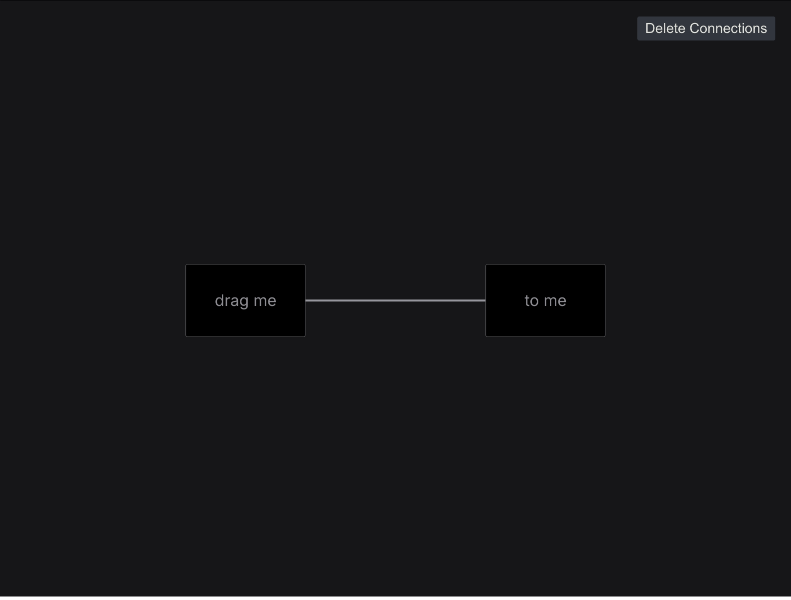
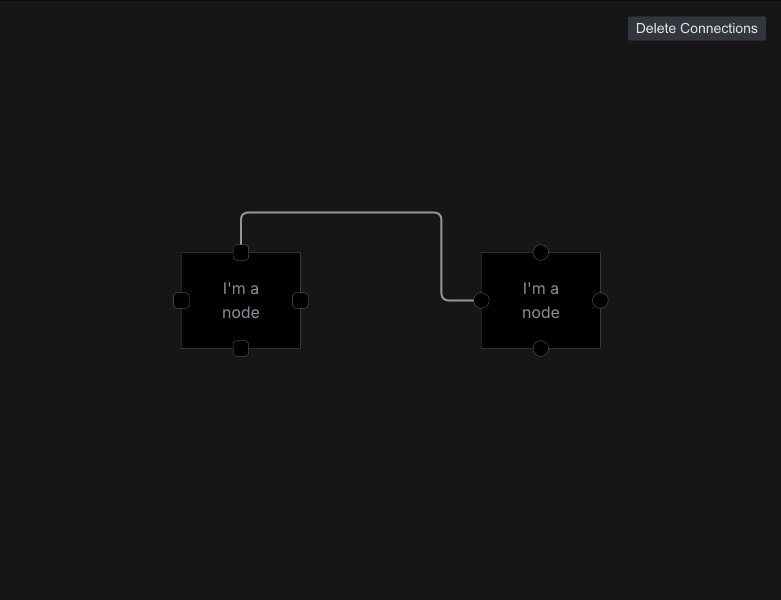
docs: Added Connection Text example

diff --git a/public/markdown/examples/environment.ts b/public/markdown/examples/environment.ts
@@ -134,6 +134,10 @@ function createEnvironment(): IDocsEnvironment {
         component: import('../../../projects/f-examples/connections/connection-markers/connection-markers.component')
       },
       {
+        tag: 'connection-text',
+        component: import('../../../projects/f-examples/connections/connection-text/connection-text.component')
+      },
+      {
         tag: 'custom-connections',
         component: import('../../../projects/f-examples/connections/custom-connections/custom-connections.component')
       },
@@ -462,20 +466,14 @@ function connectionGroup(): INavigationGroup {
         description: 'Automatically snap connections to nodes in Foblex Flow, enabling easier diagram creation in Angular.',
         image: './previews/examples/auto-snap.light.png',
         image_dark: './previews/examples/auto-snap.dark.png',
-        image_width: 791,
+        image_width: 781,
         image_height: 600,
         image_type: 'image/png',
+        badge: {
+          text: 'Updated',
+          type: 'warning'
+        }
       },
-      // {
-      //   link: 'connection-selection',
-      //   text: 'Connection Selection',
-      //   description: 'Select connections in Foblex Flow diagrams for Angular.',
-      //   image: './previews/examples/connection-selection.light.png',
-      //   image_dark: './previews/examples/connection-selection.dark.png',
-      //   image_width: 806,
-      //   image_height: 600,
-      //   image_type: 'image/png',
-      // },
       {
         link: 'connection-types',
         text: 'Connection Types',
@@ -517,6 +515,20 @@ function connectionGroup(): INavigationGroup {
         image_type: 'image/png',
       },
       {
+        link: 'connection-text',
+        text: 'Connection Text',
+        description: 'Add text to connections in Foblex Flow diagrams for Angular.',
+        image: './previews/examples/connection-text.light.png',
+        image_dark: './previews/examples/connection-text.dark.png',
+        image_width: 781,
+        image_height: 600,
+        image_type: 'image/png',
+        badge: {
+          text: 'New',
+          type: 'info'
+        }
+      },
+      {
         link: 'custom-connections',
         text: 'Custom Connections',
         description: 'Create and customize connections in Foblex Flow diagrams for Angular.',
@@ -526,14 +538,6 @@ function connectionGroup(): INavigationGroup {
         image_height: 600,
         image_type: 'image/png',
       },
-      // {
-      //   link: 'connection-text',
-      //   text: 'Connection Text',
-      // },
-      // {
-      //   link: 'connection-center',
-      //   text: 'Connection Center',
-      // },
     ]
   }
 }

diff --git a/projects/f-examples/connections/connection-text/connection-text.component.html b/projects/f-examples/connections/connection-text/connection-text.component.html
@@ -1,0 +1,41 @@
+<f-flow fDraggable (fLoaded)="onLoaded()">
+  <f-canvas>
+    <f-connection [fReassignDisabled]="true"
+                  fOutputId="1" fInputId="2" fBehavior="fixed" fType="segment" [fTextStartOffset]="fTextStartOffset" fText="Text 1">
+    </f-connection>
+    <div fNode fDragHandle [fNodePosition]="{ x: 0, y: 0 }" fNodeOutput fOutputId="1" fOutputConnectableSide="bottom">
+      I'm a node
+    </div>
+    <div fNode fDragHandle [fNodePosition]="{ x: 300, y: 0 }" fNodeInput fInputId="2" fInputConnectableSide="top">
+      I'm a node
+    </div>
+
+    <f-connection [fReassignDisabled]="true" fOutputId="3" fInputId="4" fBehavior="floating" fText="Text 2" [fTextStartOffset]="fTextStartOffset">
+    </f-connection>
+    <div fNode fDragHandle [fNodePosition]="{ x: 0, y: 150 }" fNodeOutput fOutputId="3" fOutputConnectableSide="right">
+      I'm a node
+    </div>
+    <div fNode fDragHandle [fNodePosition]="{ x: 300, y: 150 }" fNodeInput fInputId="4" fInputConnectableSide="left">
+      I'm a node
+    </div>
+
+    <f-connection [fReassignDisabled]="true" fOffset="10" fOutputId="5" fInputId="6" fType="bezier" fBehavior="fixed" fText="Text 3" [fTextStartOffset]="fTextStartOffset">
+    </f-connection>
+    <div fNode fDragHandle [fNodePosition]="{ x: 0, y: 300 }" fNodeOutput fOutputId="5" fOutputConnectableSide="bottom">
+      I'm a node
+    </div>
+    <div fNode fDragHandle [fNodePosition]="{ x: 300, y: 300 }" fNodeInput fInputId="6" fInputConnectableSide="top">
+      I'm a node
+    </div>
+  </f-canvas>
+</f-flow>
+<div class="toolbar">
+  <mat-form-field appearance="fill" class="f-form-field">
+    <mat-label>Text Offset</mat-label>
+    <mat-select panelClass="f-select-panel" [(value)]="fTextStartOffset">
+      @for (option of offsetOptions; track option) {
+        <mat-option [value]="option">{{ option }}</mat-option>
+      }
+    </mat-select>
+  </mat-form-field>
+</div>

diff --git a/projects/f-examples/connections/auto-snap/auto-snap.component.html b/projects/f-examples/connections/auto-snap/auto-snap.component.html
@@ -1,16 +1,28 @@
 <f-flow fDraggable (fLoaded)="onLoaded()" (fCreateConnection)="addConnection($event)">
   <f-canvas>
-    <f-connection-for-create></f-connection-for-create>
-    <f-snap-connection [fSnapThreshold]="100"></f-snap-connection>
+    <f-connection-for-create fType="segment"></f-connection-for-create>
+    <f-snap-connection [fSnapThreshold]="100" fType="segment"></f-snap-connection>
 
     @for (connection of connections; track connection.inputId)  {
-      <f-connection [fReassignDisabled]="true"
+      <f-connection [fReassignDisabled]="true" fType="segment"
                     [fOutputId]="connection.outputId" [fInputId]="connection.inputId">
       </f-connection>
     }
 
-    <div fNode fDragHandle [fNodePosition]="{ x: 0, y: 24 }" fNodeOutput fOutputConnectableSide="right">drag me</div>
-    <div fNode fDragHandle [fNodePosition]="{ x: 300, y: 24 }" fNodeInput fInputConnectableSide="left">to me</div>
+    <div fNode fDragHandle [fNodePosition]="{ x: 0, y: 24 }">
+      <div fNodeOutput fOutputConnectableSide="left" class="left"></div>
+      <div fNodeOutput fOutputConnectableSide="top" class="top"></div>
+      <div fNodeOutput fOutputConnectableSide="right" class="right"></div>
+      <div fNodeOutput fOutputConnectableSide="bottom" class="bottom"></div>
+      I'm a node
+    </div>
+    <div fNode fDragHandle [fNodePosition]="{ x: 300, y: 24 }">
+      <div fNodeInput fInputConnectableSide="left" class="left"></div>
+      <div fNodeInput fInputConnectableSide="top" class="top"></div>
+      <div fNodeInput fInputConnectableSide="right" class="right"></div>
+      <div fNodeInput fInputConnectableSide="bottom" class="bottom"></div>
+      I'm a node
+    </div>
 
   </f-canvas>
 </f-flow>

diff --git a/projects/f-examples/connections/connection-text/connection-text.component.ts b/projects/f-examples/connections/connection-text/connection-text.component.ts
@@ -1,0 +1,36 @@
+import { ChangeDetectionStrategy, Component, ViewChild } from '@angular/core';
+import { FCanvasComponent, FFlowModule } from '@foblex/flow';
+import { MatFormField, MatLabel } from '@angular/material/form-field';
+import { MatOption } from '@angular/material/core';
+import { MatSelect } from '@angular/material/select';
+
+@Component({
+  selector: 'connection-text',
+  styleUrls: [
+    '../../_mdc-controls.scss',
+    './connection-text.component.scss'
+  ],
+  templateUrl: './connection-text.component.html',
+  changeDetection: ChangeDetectionStrategy.OnPush,
+  standalone: true,
+  imports: [
+    FFlowModule,
+    MatFormField,
+    MatLabel,
+    MatOption,
+    MatSelect
+  ]
+})
+export class ConnectionTextComponent {
+
+  protected offsetOptions: string[] = [ '10', '25%', '30', '50%', '75', '100%' ];
+
+  protected fTextStartOffset: string = '50%';
+
+  @ViewChild(FCanvasComponent, { static: true })
+  protected fCanvas!: FCanvasComponent;
+
+  protected onLoaded(): void {
+    this.fCanvas.resetScaleAndCenter(false);
+  }
+}

diff --git a/projects/f-flow/src/f-connection/common/f-connection-text/f-connection-text-path.directive.ts b/projects/f-flow/src/f-connection/common/f-connection-text/f-connection-text-path.directive.ts
@@ -35,13 +35,16 @@ export class FConnectionTextPathDirective implements IHasHostElement, OnInit {
   }
 
   public ngOnInit(): void {
-    this.hostElement.setAttribute('startOffset', this.base.fTextStartOffset || '50%');
     this.hostElement.setAttribute('text-anchor', `middle`);
     this.symbolWidth = this.getSymbolWidth(this.base.fText || '');
   }
 
   public getBBox(): DOMRect {
     return this.hostElement.getBBox();
+  }
+
+  public redraw(): void {
+    this.hostElement.setAttribute('startOffset', this.base.fTextStartOffset || '50%');
   }
 
   private getFontStyles(element: SVGTextPathElement): { fontSize: string, fontFamily: string } {

diff --git a/projects/f-flow/src/f-draggable/node-resize/node-resize-preparation/node-resize-preparation.execution.ts b/projects/f-flow/src/f-draggable/node-resize/node-resize-preparation/node-resize-preparation.execution.ts
@@ -40,11 +40,9 @@ export class NodeResizePreparationExecution implements IExecution<NodeResizePrep
     this._fDraggableDataContext.onPointerDownPosition = Point.fromPoint(request.event.getPosition())
       .elementTransform(this._fHost).div(this._transform.scale);
 
+    const resizeHandleType = EFResizeHandleType[ this._getHandleType(request.event.targetElement) ];
     this._fDraggableDataContext.draggableItems = [
-      new NodeResizeDragHandler(
-        this._fNode!,
-        EFResizeHandleType[ this._getHandleType(request.event.targetElement) ]
-      )
+      new NodeResizeDragHandler(this._fNode!, resizeHandleType)
     ];
   }
 

diff --git a/projects/f-flow/src/f-connection/common/f-connection-text/f-connection-text.component.ts b/projects/f-flow/src/f-connection/common/f-connection-text/f-connection-text.component.ts
@@ -46,7 +46,7 @@ export class FConnectionTextComponent implements IConnectionText {
   }
 
   public redraw(line: ILine): void {
-
+    this.textPathDirective.redraw();
     const isTextReverse: boolean = FConnectionTextComponent.isTextReverse(line);
     const dyValue = this.calculateDy(this.textPathDirective.fontSize, isTextReverse);
 

diff --git a/projects/f-examples/connections/auto-snap/auto-snap.component.scss b/projects/f-examples/connections/auto-snap/auto-snap.component.scss
@@ -8,6 +8,18 @@
   @include flow-common.node;
 }
 
+.f-node-input, .f-node-output {
+  &:not(.f-node) {
+    @include flow-common.connectors;
+  }
+}
+
+.f-node-output {
+  &:not(.f-node) {
+    border-radius: 4px;
+  }
+}
+
 .toolbar {
   @include flow-common.toolbar;
 }

diff --git a/projects/f-examples/connections/connection-text/connection-text.component.scss b/projects/f-examples/connections/connection-text/connection-text.component.scss
@@ -1,0 +1,13 @@
+@use "../../flow-common";
+
+::ng-deep connection-text {
+  @include flow-common.connection;
+}
+
+.f-node {
+  @include flow-common.node;
+}
+
+.toolbar {
+  @include flow-common.toolbar;
+}

diff --git a/projects/f-examples/connectors/connectability-check/connectability-check.component.scss b/projects/f-examples/connectors/connectability-check/connectability-check.component.scss
@@ -15,6 +15,12 @@
   }
 }
 
+.f-node-output {
+  &:not(.f-node) {
+    border-radius: 4px;
+  }
+}
+
 .f-connections-dragging {
   .f-node-input {
     &:not(.f-node-input-can-be-connected-to) {

diff --git a/projects/f-examples/connectors/limiting-connections/limiting-connections.component.scss b/projects/f-examples/connectors/limiting-connections/limiting-connections.component.scss
@@ -23,6 +23,12 @@
   }
 }
 
+.f-node-output {
+  &:not(.f-node) {
+    border-radius: 4px;
+  }
+}
+
 .toolbar {
   @include flow-common.toolbar;
 }

diff --git a/public/markdown/examples/connection-text.md b/public/markdown/examples/connection-text.md
@@ -1,0 +1,19 @@
+# Connection Text
+
+## Description
+
+This guide demonstrates how to add text to connections in Foblex Flow for Angular. To add text to a connection, you need to set the `fText` property of the connection component. The text will be displayed in the middle of the connection line. Also, you can set `fTextStartOffset` parameter to adjust the text position along the connection line.
+You can customize the text appearance using css styles.
+
+## Example
+
+::: ng-component <connection-text></connection-text> [height]="600"
+[component.html] <<< https://raw.githubusercontent.com/Foblex/f-flow/main/projects/f-examples/connections/connection-text/connection-text.component.html
+[component.ts] <<< https://raw.githubusercontent.com/Foblex/f-flow/main/projects/f-examples/connections/connection-text/connection-text.component.ts
+[component.scss] <<< https://raw.githubusercontent.com/Foblex/f-flow/main/projects/f-examples/connections/connection-text/connection-text.component.scss
+[common.scss] <<< https://raw.githubusercontent.com/Foblex/f-flow/main/projects/f-examples/_flow-common.scss
+:::
+
+
+
+
